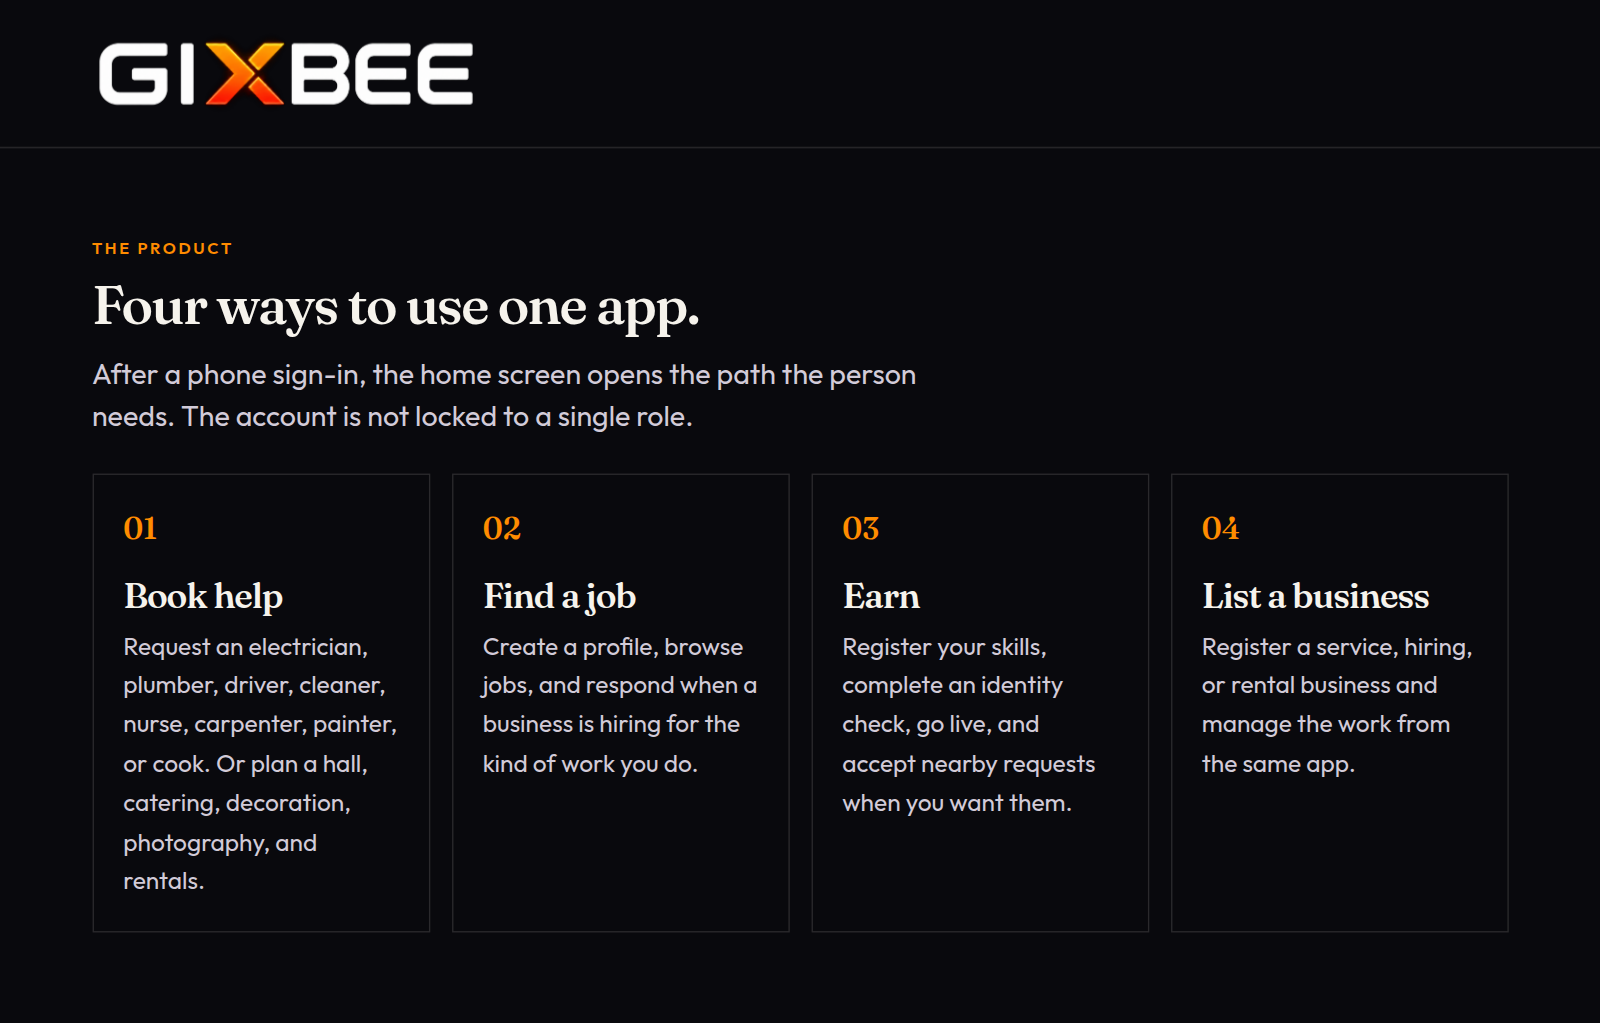
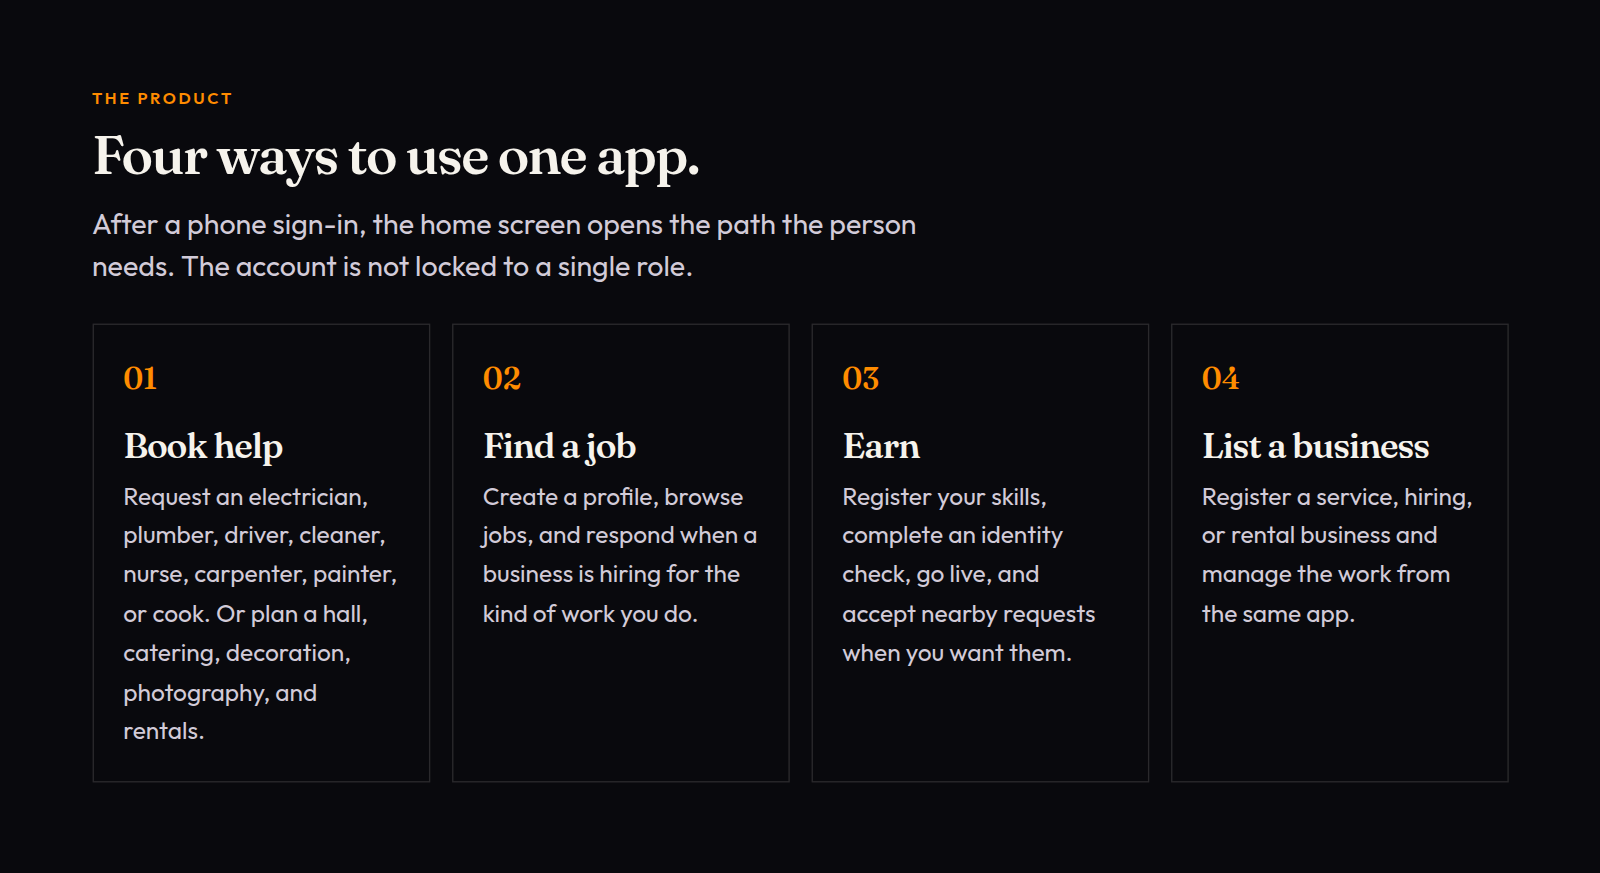
Remove the wordmark from every public page picture.
The Google Sites exports now start at the section content, and the site header no longer shows the logo.

diff --git a/site/cloud.html b/site/cloud.html
@@ -15,7 +15,6 @@
   <a class="skip" href="#main">Skip to content</a>
   <header class="site-header">
     <div class="wrap">
-      <a class="brand" href="index.html"><img src="assets/gixbee-logo.png" alt="Gixbee"></a>
       <input class="nav-toggle" type="checkbox" id="nav-toggle" aria-label="Open menu">
       <label class="nav-burger" for="nav-toggle">Menu</label>
       <nav>

diff --git a/site/index.html b/site/index.html
@@ -15,7 +15,6 @@
   <a class="skip" href="#main">Skip to content</a>
   <header class="site-header">
     <div class="wrap">
-      <a class="brand" href="index.html"><img src="assets/gixbee-logo.png" alt="Gixbee"></a>
       <input class="nav-toggle" type="checkbox" id="nav-toggle" aria-label="Open menu">
       <label class="nav-burger" for="nav-toggle">Menu</label>
       <nav>

diff --git a/site/privacy.html b/site/privacy.html
@@ -15,7 +15,6 @@
   <a class="skip" href="#main">Skip to content</a>
   <header class="site-header">
     <div class="wrap">
-      <a class="brand" href="index.html"><img src="assets/gixbee-logo.png" alt="Gixbee"></a>
       <input class="nav-toggle" type="checkbox" id="nav-toggle" aria-label="Open menu">
       <label class="nav-burger" for="nav-toggle">Menu</label>
       <nav>

diff --git a/site/product.html b/site/product.html
@@ -15,7 +15,6 @@
   <a class="skip" href="#main">Skip to content</a>
   <header class="site-header">
     <div class="wrap">
-      <a class="brand" href="index.html"><img src="assets/gixbee-logo.png" alt="Gixbee"></a>
       <input class="nav-toggle" type="checkbox" id="nav-toggle" aria-label="Open menu">
       <label class="nav-burger" for="nav-toggle">Menu</label>
       <nav>

diff --git a/site/terms.html b/site/terms.html
@@ -15,7 +15,6 @@
   <a class="skip" href="#main">Skip to content</a>
   <header class="site-header">
     <div class="wrap">
-      <a class="brand" href="index.html"><img src="assets/gixbee-logo.png" alt="Gixbee"></a>
       <input class="nav-toggle" type="checkbox" id="nav-toggle" aria-label="Open menu">
       <label class="nav-burger" for="nav-toggle">Menu</label>
       <nav>

diff --git a/site/styles.css b/site/styles.css
@@ -81,10 +81,8 @@ p { margin: 0 0 14px; }
   align-items: center;
   justify-content: space-between;
   gap: 20px;
-  min-height: 108px;
+  min-height: 64px;
 }
-.brand { display: flex; align-items: center; text-decoration: none; }
-.brand img { height: 64px; width: auto; }
 .nav-toggle { position: absolute; opacity: 0; pointer-events: none; }
 .nav-burger {
   display: none;
